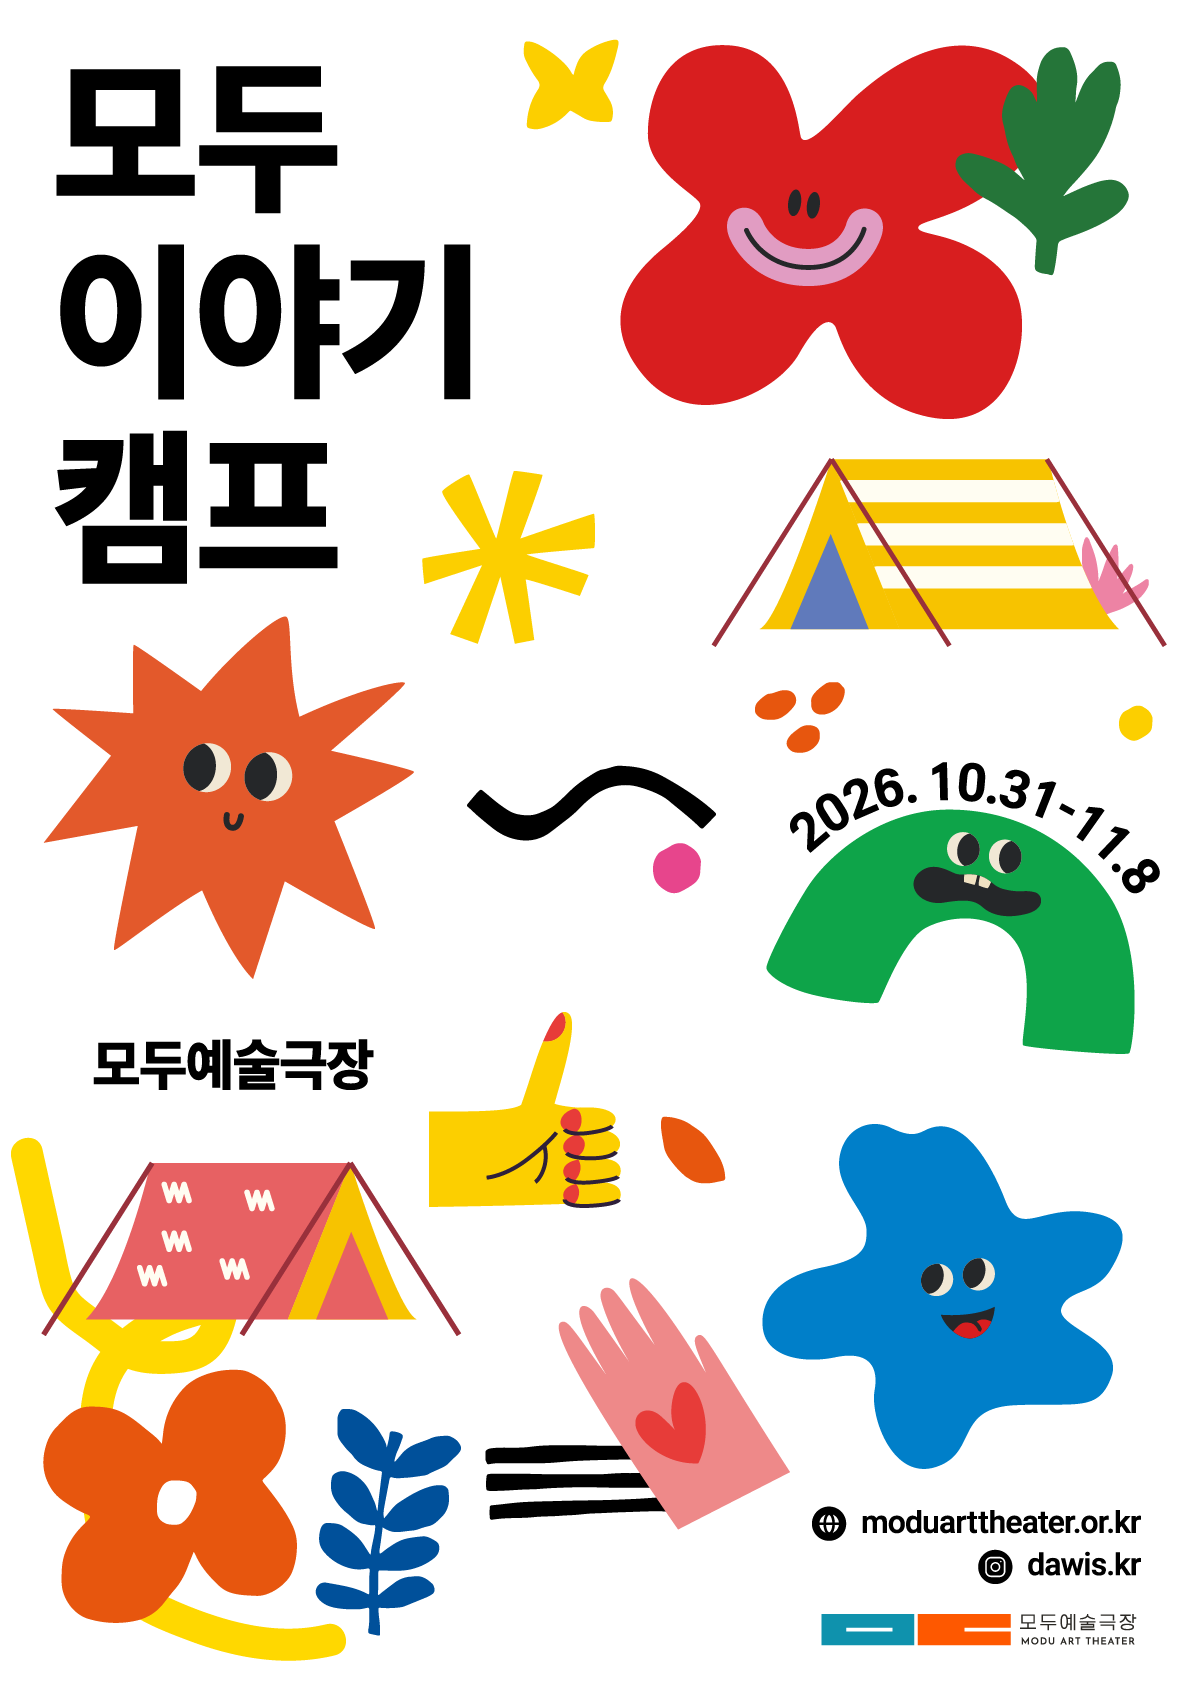
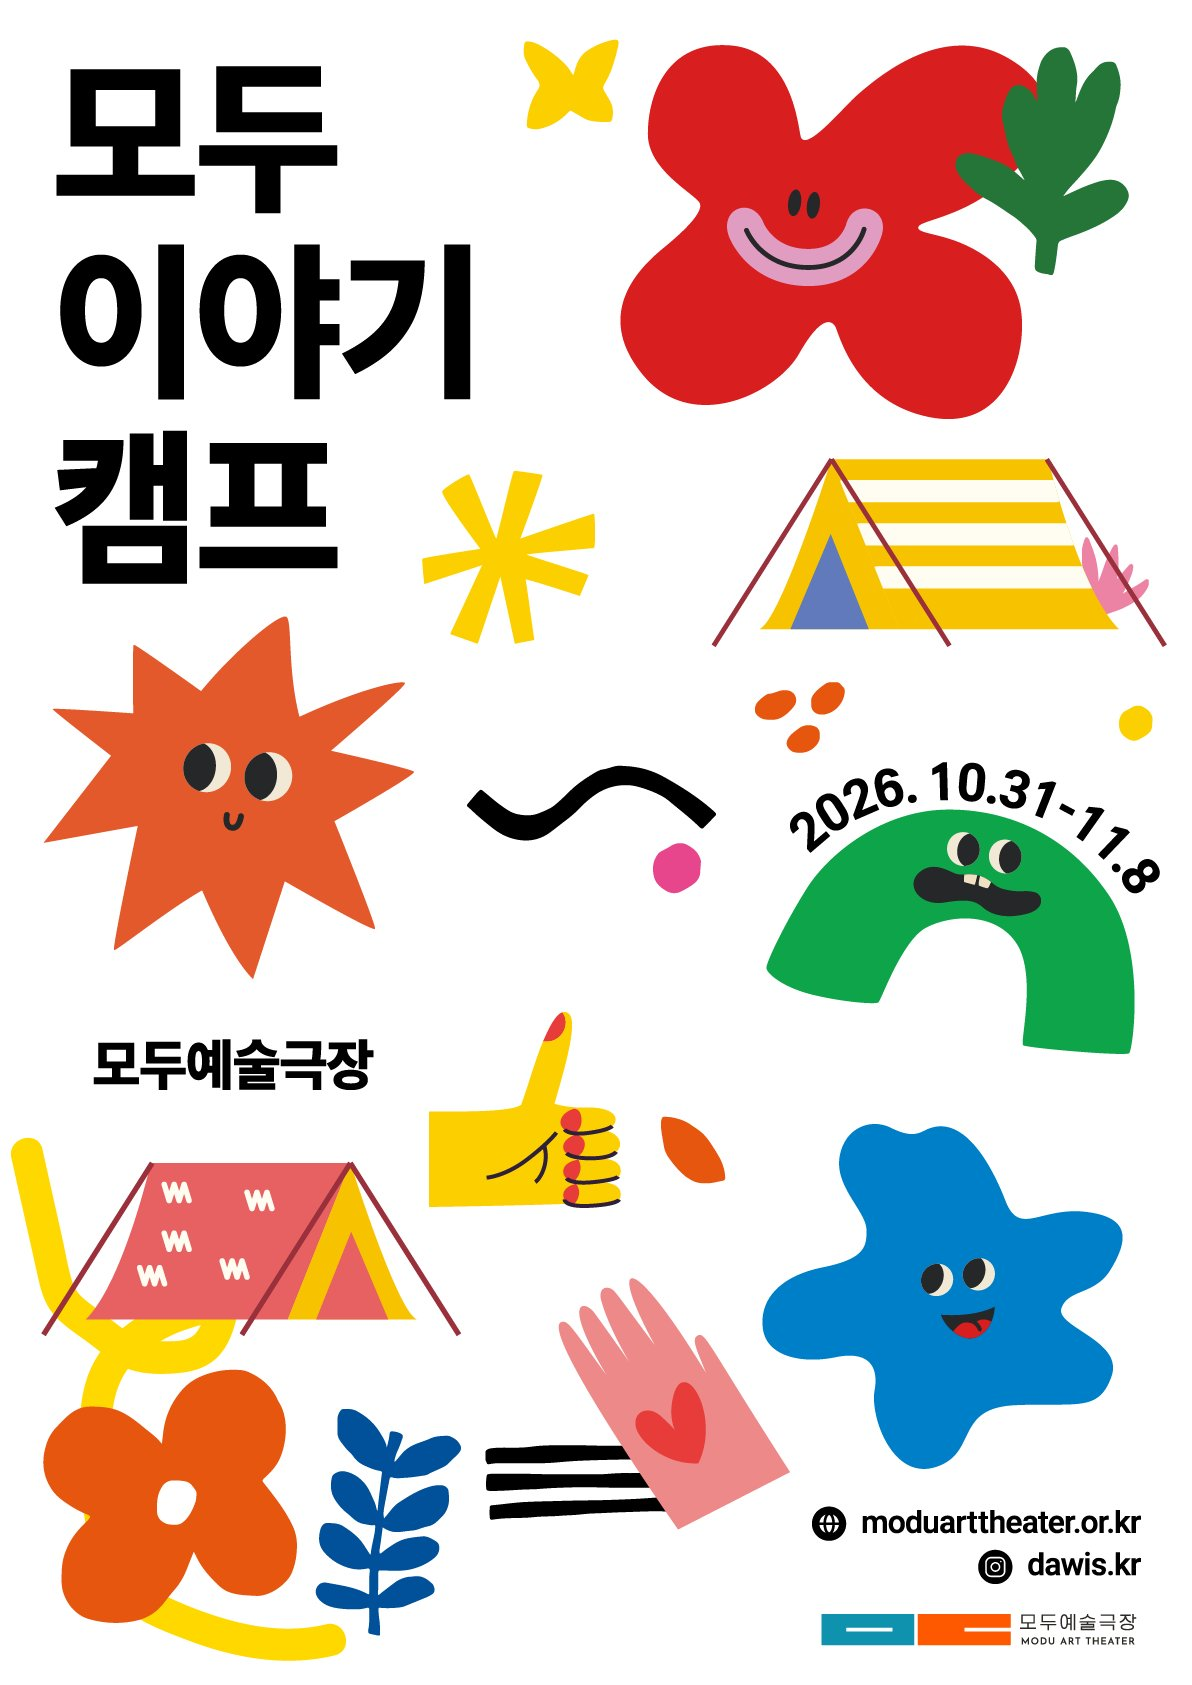
Add files via upload

diff --git a/index.html b/index.html
@@ -279,6 +279,14 @@
   .timeline .date { font-weight: 900; font-size: 22px; color: var(--red); }
   .timeline .title { font-weight: 900; font-size: 22px; margin-bottom: 6px; }
   .timeline .desc { margin: 0; color: var(--muted); }
+  /* ================= 캠프 포스터 + 글 ================= */
+  .camp-grid { display: grid; grid-template-columns: 1fr 1fr; gap: 48px; align-items: start; margin-bottom: 56px; }
+  .camp-poster .poster-wrap { max-width: none; margin: 0; }
+  .camp-text .sec-desc { margin: 0 0 28px; }
+  .camp-text .timeline { margin: 0; }
+  @media (max-width: 880px) {
+    .camp-grid { grid-template-columns: 1fr; gap: 32px; }
+  }
   /* ================= 일정표 ================= */
   .sched { margin: 0 0 48px; }
   .sched-title { font-size: 30px; font-weight: 900; margin: 0 0 22px; letter-spacing: -0.02em; }
@@ -353,6 +361,9 @@
     .hotspot { font-size: 13px; padding: 7px 12px; }
     .deco { display: none; }
   }
+  .touch-only { display: none; }
+  @media (hover: none) { .touch-only { display: block; margin-top: 6px; } }
+
   /* ================= 포스터 태그 영상 ================= */
   .hotspot .hs-video {
     display: none; position: absolute; left: 50%; bottom: calc(100% + 10px); transform: translateX(-50%);
@@ -472,6 +483,7 @@
     <p class="hero-hint">
       <span class="l-ko">그림을 눌러 프로그램으로 이동하세요</span>
       <span class="l-en">Tap a tag on the poster to go to each program</span>
+      <span class="touch-only l-ko">한 번 누르면 영상, 한 번 더 누르면 해당 프로그램으로 이동합니다</span><span class="touch-only l-en">Tap once to preview, tap again to go to the program</span>
       
     </p>
 
@@ -954,24 +966,22 @@
 <section class="s-camp" id="camp">
   <div class="deco" style="width:200px; height:200px; right:-40px; top:30px;"><svg><use href="#s-flower"/></svg></div>
   <div class="wrap">
-    <span class="kicker l-ko">05 캠프</span>
-    <span class="kicker l-en">05 CAMP</span>
     
     <h2 class="sec-title l-ko">2026 모두 이야기 캠프</h2>
     <h2 class="sec-title l-en">2026 Modu Story Camp</h2>
-    
-    <p class="sec-desc l-ko">서로 다른 경험과 감각이 만나면 어떤 이야기가 만들어질까요? 장애예술인이 창작과 교류의 주체가 되어, 시민과 함께 새로운 예술적 경험을 만들어 가는 참여형 문화예술 축제입니다.</p>
-    <p class="sec-desc l-en">What kind of stories will emerge when different experiences and senses meet? Modu Story Camp is a participatory arts festival in which disabled artists lead creation and exchange, creating new artistic experiences together with citizens.</p>
-    
-
-    <div class="poster-wrap">
+    <div class="camp-grid">
+      <div class="camp-poster">    <div class="poster-wrap">
       <div class="img-box">
         <img src="images/camp-poster.jpg" alt="2026 모두 이야기 캠프 포스터" onerror="this.style.display='none'">
         <div class="ph">images/camp-poster.jpg</div>
       </div>
     </div>
+      </div>
+      <div class="camp-text">
+        <p class="sec-desc l-ko">서로 다른 경험과 감각이 만나면 어떤 이야기가 만들어질까요? 장애예술인이 창작과 교류의 주체가 되어, 시민과 함께 새로운 예술적 경험을 만들어 가는 참여형 문화예술 축제입니다.</p>
+    <p class="sec-desc l-en">What kind of stories will emerge when different experiences and senses meet? Modu Story Camp is a participatory arts festival in which disabled artists lead creation and exchange, creating new artistic experiences together with citizens.</p>
 
-    <ul class="timeline">
+        <ul class="timeline">
       <li class="l-ko">
         <div class="date">10. 31.(토)</div>
         <div>
@@ -1004,6 +1014,15 @@
       </li>
       
     </ul>
+      </div>
+    </div>
+
+    
+
+    
+
+
+
 
 <div class="sched l-ko">
   <h3 class="sched-title">전체 프로그램 일정표</h3>
@@ -1196,11 +1215,28 @@
 </script>
 <script>
 (function () {
+  var items = [];
   document.querySelectorAll('.hotspot').forEach(function (a) {
     var v = a.querySelector('.hs-video video');
     if (!v) return;
-    a.addEventListener('mouseenter', function () { a.classList.add('playing'); try { v.play().catch(function () {}); } catch (e) {} });
-    a.addEventListener('mouseleave', function () { a.classList.remove('playing'); try { v.pause(); } catch (e) {} });
+    items.push({ a: a, v: v });
+  });
+  function show(it) {
+    items.forEach(function (o) { if (o !== it) { o.a.classList.remove('playing'); try { o.v.pause(); } catch (e) {} } });
+    it.a.classList.add('playing');
+    try { it.v.play().catch(function () {}); } catch (e) {}
+  }
+  function hide(it) { it.a.classList.remove('playing'); try { it.v.pause(); } catch (e) {} }
+  var isTouchOnly = window.matchMedia('(hover: none)').matches;
+  items.forEach(function (it) {
+    // mouse: hover shows the video
+    it.a.addEventListener('pointerenter', function (e) { if (e.pointerType === 'mouse') show(it); });
+    it.a.addEventListener('pointerleave', function (e) { if (e.pointerType === 'mouse') hide(it); });
+    // touch: first tap shows the video, second tap goes to the section
+    it.a.addEventListener('click', function (e) {
+      if (!isTouchOnly) return;
+      if (!it.a.classList.contains('playing')) { e.preventDefault(); show(it); }
+    });
   });
 })();
 </script>
